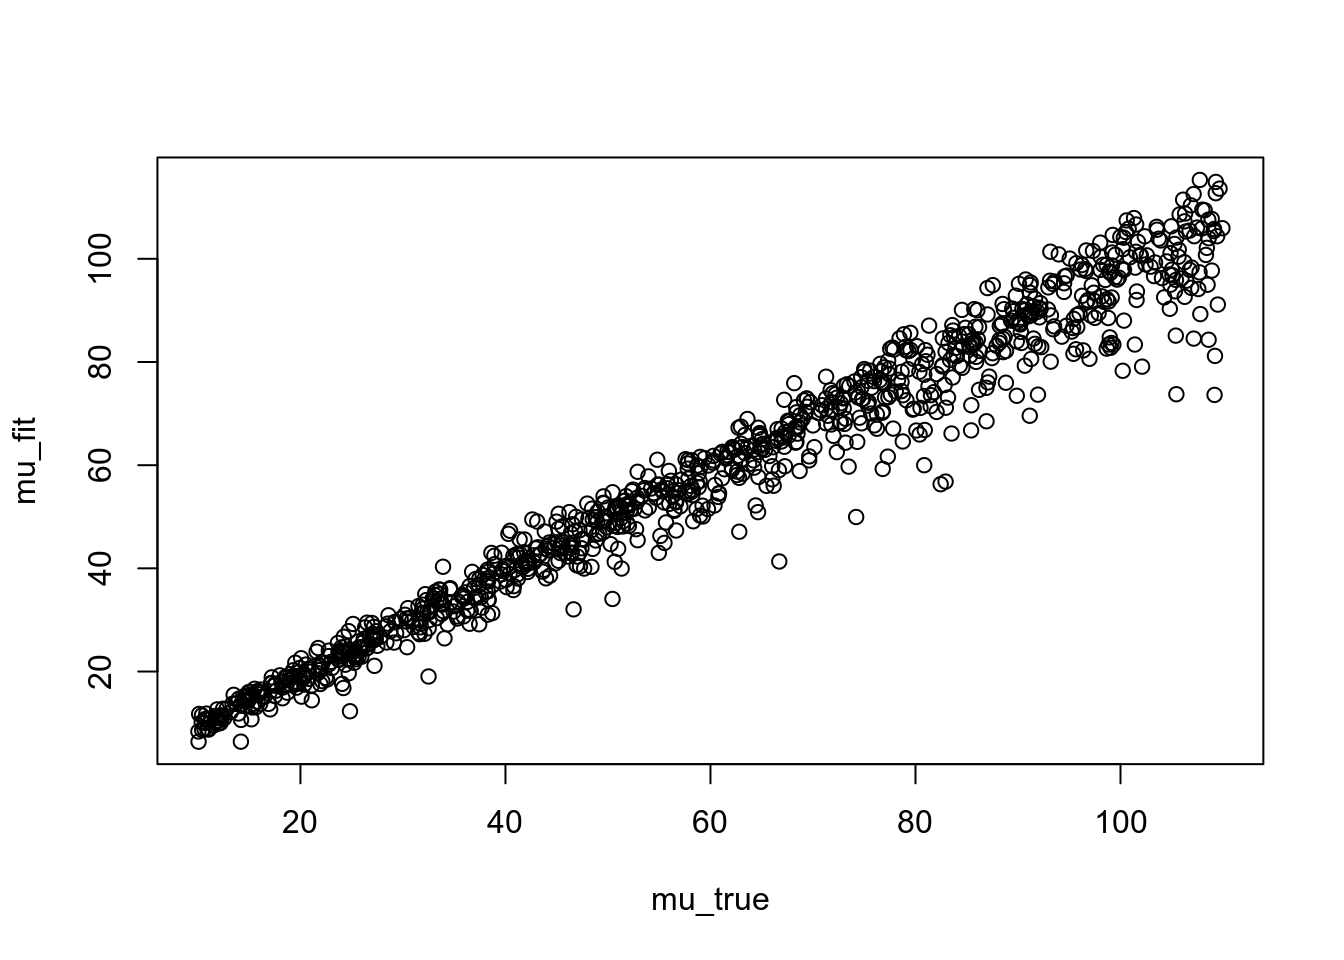
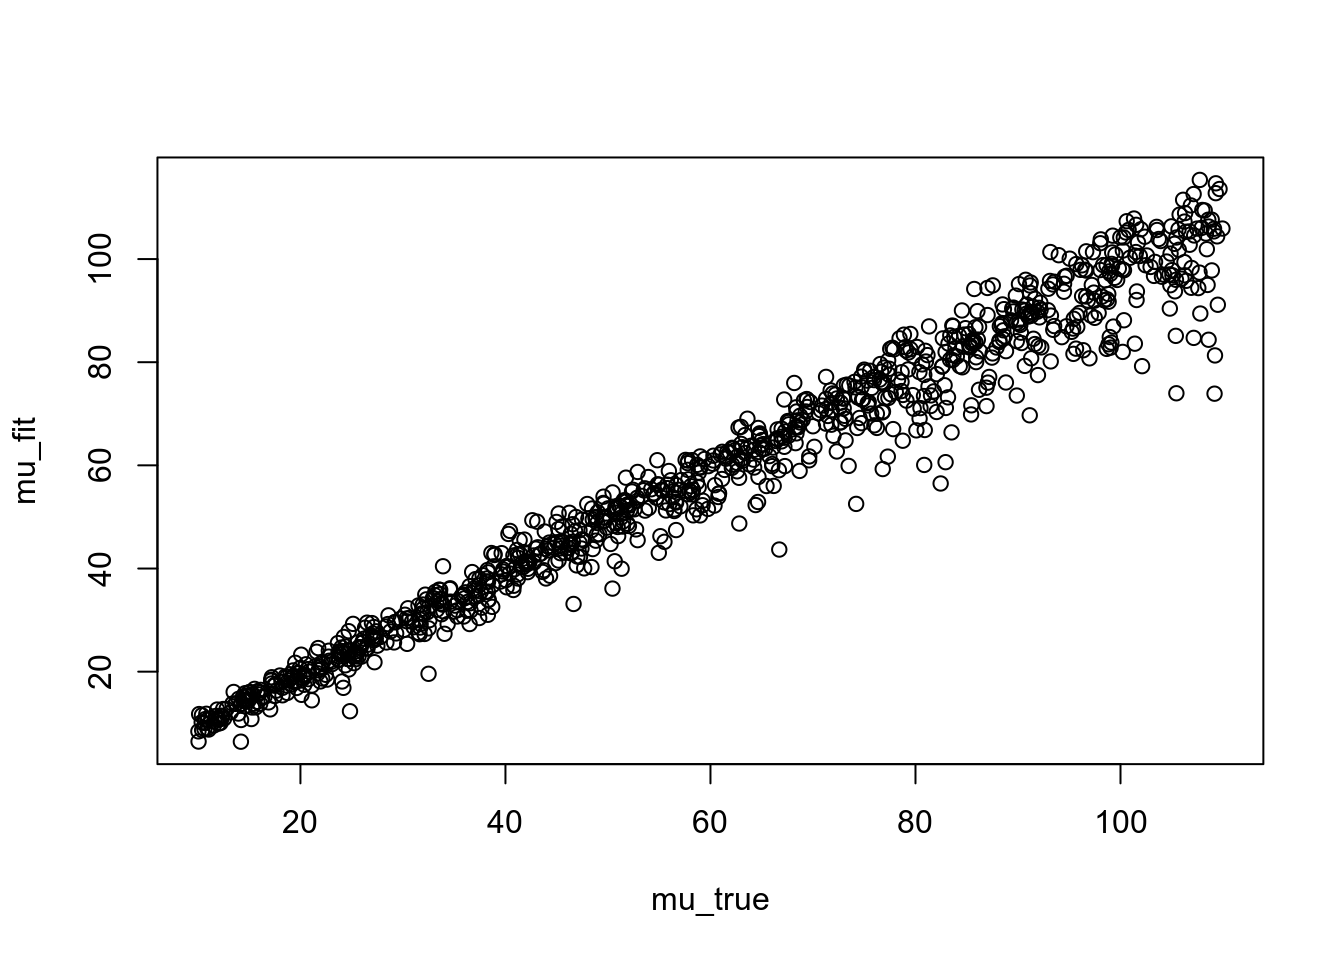
Build site.

Changed region(s): [[0.1875, 0.1875, 0.9062, 0.75], [0.0625, 0.5625, 0.0938, 0.625], [0.5625, 0.5625, 0.5938, 0.5938]]

diff --git a/docs/experiment_nb_means2.html b/docs/experiment_nb_means2.html
@@ -509,10 +509,10 @@ unnamed-chunk-3
 <div class="panel panel-default">
 <div class="panel-heading">
 <p class="panel-title">
-<a data-toggle="collapse" data-parent="#workflowr-checks" href="#strongRepositoryversionstrongahrefhttpsgithubcomzihao12ebpmfdemotreeb266d33c2644629910b55cbbf95bcf094fef96eetargetblankb266d33a"> <span class="glyphicon glyphicon-ok text-success" aria-hidden="true"></span> <strong>Repository version:</strong> <a href="https://github.com/zihao12/ebpmf_demo/tree/b266d33c2644629910b55cbbf95bcf094fef96ee" target="_blank">b266d33</a> </a>
+<a data-toggle="collapse" data-parent="#workflowr-checks" href="#strongRepositoryversionstrongahrefhttpsgithubcomzihao12ebpmfdemotreed3d5d92f1de177aec54f5270eb0133d7d7a13b1btargetblankd3d5d92a"> <span class="glyphicon glyphicon-ok text-success" aria-hidden="true"></span> <strong>Repository version:</strong> <a href="https://github.com/zihao12/ebpmf_demo/tree/d3d5d92f1de177aec54f5270eb0133d7d7a13b1b" target="_blank">d3d5d92</a> </a>
 </p>
 </div>
[2 lines of base64/hex data omitted]
 <div class="panel-body">
 <p>
 Great! You are using Git for version control. Tracking code development and connecting the code version to the results is critical for reproducibility. The version displayed above was the version of the Git repository at the time these results were generated. <br><br> Note that you need to be careful to ensure that all relevant files for the analysis have been committed to Git prior to generating the results (you can use <code>wflow_publish</code> or <code>wflow_git_commit</code>). workflowr only checks the R Markdown file, but you know if there are other scripts or data files that it depends on. Below is the status of the Git repository when the results were generated:
@@ -596,6 +596,40 @@ Message
 </tr>
 </thead>
 <tbody>
+<tr>
+<td>
+Rmd
+</td>
+<td>
+<a href="https://github.com/zihao12/ebpmf_demo/blob/d3d5d92f1de177aec54f5270eb0133d7d7a13b1b/analysis/experiment_nb_means2.Rmd" target="_blank">d3d5d92</a>
+</td>
+<td>
+zihao12
+</td>
+<td>
+2020-04-03
+</td>
+<td>
+run 10000 iterations in experiment_nb_means2.Rmd
+</td>
+</tr>
+<tr>
+<td>
+html
+</td>
+<td>
+<a href="https://rawcdn.githack.com/zihao12/ebpmf_demo/cabe8a30064ebf2fdfe52226d329ead9928e42e0/docs/experiment_nb_means2.html" target="_blank">cabe8a3</a>
+</td>
+<td>
+zihao12
+</td>
+<td>
+2020-04-03
+</td>
+<td>
+Build site.
+</td>
+</tr>
 <tr>
 <td>
 Rmd
@@ -970,7 +1004,7 @@ set.seed(123)</code></pre>
 <!-- ```{r cache=TRUE, autodep=TRUE, message=FALSE, warning=FALSE} -->
 <!-- exper <- exper_nb_means(K = 10, p = 99, maxiter = 100, verbose = FALSE) -->
 <!-- ``` -->
-<pre class="r"><code>exper &lt;- exper_nb_means(K = 10, p = 999, maxiter = 5000, verbose = FALSE)</code></pre>
+<pre class="r"><code>exper &lt;- exper_nb_means(K = 10, p = 999, maxiter = 10000, verbose = FALSE)</code></pre>
 <ul>
 <li>There are optimization issues when initializing from truth, or running too many iterations …</li>
 </ul>
@@ -1013,6 +1047,17 @@ Date
 </tr>
 </thead>
 <tbody>
+<tr>
+<td>
+<a href="https://github.com/zihao12/ebpmf_demo/blob/cabe8a30064ebf2fdfe52226d329ead9928e42e0/docs/figure/experiment_nb_means2.Rmd/unnamed-chunk-4-1.png" target="_blank">cabe8a3</a>
+</td>
+<td>
+zihao12
+</td>
+<td>
+2020-04-03
+</td>
+</tr>
 <tr>
 <td>
 <a href="https://github.com/zihao12/ebpmf_demo/blob/25cbc786bd29183f8a2902388ecf96410409ab37/docs/figure/experiment_nb_means2.Rmd/unnamed-chunk-4-1.png" target="_blank">25cbc78</a>
@@ -1103,6 +1148,17 @@ Date
 <tbody>
 <tr>
 <td>
+<a href="https://github.com/zihao12/ebpmf_demo/blob/cabe8a30064ebf2fdfe52226d329ead9928e42e0/docs/figure/experiment_nb_means2.Rmd/unnamed-chunk-5-1.png" target="_blank">cabe8a3</a>
+</td>
+<td>
+zihao12
+</td>
+<td>
+2020-04-03
+</td>
+</tr>
+<tr>
+<td>
 <a href="https://github.com/zihao12/ebpmf_demo/blob/25cbc786bd29183f8a2902388ecf96410409ab37/docs/figure/experiment_nb_means2.Rmd/unnamed-chunk-5-1.png" target="_blank">25cbc78</a>
 </td>
 <td>
@@ -1188,6 +1244,17 @@ Date
 </tr>
 </thead>
 <tbody>
+<tr>
+<td>
+<a href="https://github.com/zihao12/ebpmf_demo/blob/cabe8a30064ebf2fdfe52226d329ead9928e42e0/docs/figure/experiment_nb_means2.Rmd/unnamed-chunk-6-1.png" target="_blank">cabe8a3</a>
+</td>
+<td>
+zihao12
+</td>
+<td>
+2020-04-03
+</td>
+</tr>
 <tr>
 <td>
 <a href="https://github.com/zihao12/ebpmf_demo/blob/25cbc786bd29183f8a2902388ecf96410409ab37/docs/figure/experiment_nb_means2.Rmd/unnamed-chunk-6-1.png" target="_blank">25cbc78</a>
